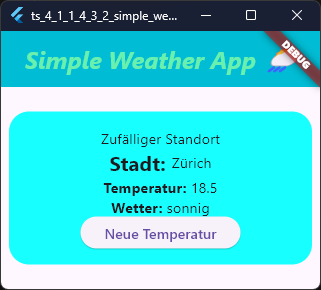
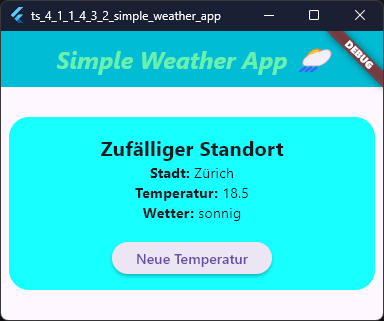
update readme

diff --git a/lib/main.dart b/lib/main.dart
@@ -117,13 +117,20 @@ class weatherWidgetRandomState extends State<weatherWidgetRandom> {
       ),
       child: Column(
         children: [
-          const Center(child: Text("Zufälliger Standort")),
+          const Center(
+            child: Text(
+              "Zufälliger Standort",
+              style: TextStyle(fontWeight: FontWeight.bold, fontSize: 20),
+            ),
+          ),
           Row(
             mainAxisAlignment: MainAxisAlignment.center,
             children: [
               const Text(
                 "Stadt: ",
-                style: TextStyle(fontWeight: FontWeight.bold, fontSize: 20),
+                style: TextStyle(
+                  fontWeight: FontWeight.bold,
+                ),
               ),
               Text(weatherdata.city)
             ],
@@ -141,6 +148,9 @@ class weatherWidgetRandomState extends State<weatherWidgetRandom> {
               const Text("Wetter: ", style: TextStyle(fontWeight: FontWeight.bold)),
               Text(weatherdata.weatherCondition)
             ],
+          ),
+          SizedBox(
+            height: 20,
           ),
           ElevatedButton(
               onPressed: () {
